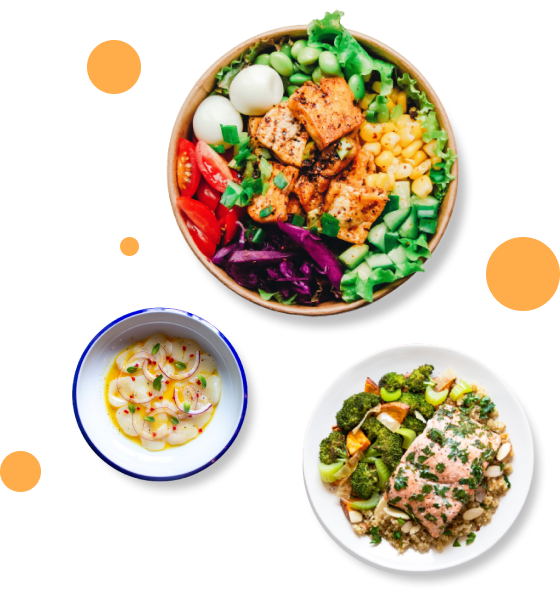
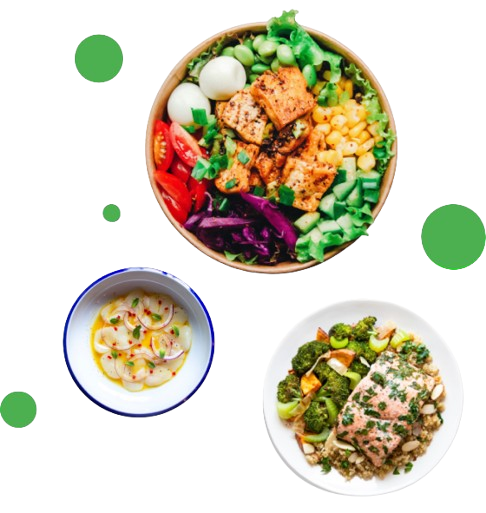
feat: add new functionality to donor cards

diff --git a/src/components/feedbacks/feedback.jsx b/src/components/feedbacks/feedback.jsx
@@ -1,5 +1,5 @@
 import "./feedback.css"
-import chef from "../../assets/chef.png"
+import chef from "../../assets/chefe.png"
 import axios from "axios"
 import { useEffect, useState } from "react";
 
@@ -11,13 +11,11 @@ export function Feedbacks() {
 
     async function getDataUser() {
         const { data } = await axios.get("http://localhost:4000/user");
-        console.log(data);
         setUser(data.users);
     }
 
     async function getDataOpinion() {
         const { data } = await axios.get("http://localhost:4000/opinion");
-        console.log(data);
         setOpinion(data.opinions);
     }
 
@@ -45,7 +43,7 @@ export function Feedbacks() {
 
                     <div className="feedback">
                         <img src={`${baseUrl}${user.image}`}alt="" className="feedback_avatar"/>
-                        <div>
+                        <div key={user.user_id}>
                             <p>
                                 {user.username} 
                                 <span>

diff --git a/src/components/cards/card.jsx b/src/components/cards/card.jsx
@@ -1,13 +1,33 @@
 
+import { useEffect, useRef } from "react";
 import "./card.css"
+import VanillaTilt from "vanilla-tilt"
 
 
 export function Card({donor}) {
     const baseUrl = "http://localhost:4000"
+    const tiltRef = useRef(null);
+
+    useEffect(() => {
+      if (tiltRef.current) {
+        VanillaTilt.init(tiltRef.current, {
+          max: 17,
+          speed: 400,
+          glare: true,
+          "max-glare": 0.3
+        });
+      }
+  
+      return () => {
+        if (tiltRef.current?.vanillaTilt) {
+          tiltRef.current.vanillaTilt.destroy();
+        }
+      };
+    }, []);
 
     return (
         <>
-            <div className="card" key={donor.donor_id}>
+            <div className="card" key={donor.donor_id} ref={tiltRef}>
                     <div className="heart">
                         <i className="fas fa-heart"></i>
                     </div>

diff --git a/src/components/header/header.css b/src/components/header/header.css
@@ -3,7 +3,7 @@ header {
     padding: 28px 8%;
     position: sticky;
     top: 0;
-    background-color: #fff9ea;
+    background-color: #eafff0;
     z-index: 3;
 
 }
@@ -17,7 +17,7 @@ header {
 
 #nav_icon {
     font-size: 22px;
-    color: #e9a209;
+    color: #4CAF50;
 }
 
 .nav_list {
@@ -30,12 +30,6 @@ header {
     text-decoration: none;
     color: #1d1d1dad;
     font-weight: 600;
-}
-
-.nav_item.active a {
-    color: #1d1d1d;
-    border-bottom: 3px solid #ffe100;
-
 }
 
 .mobile_btn {

diff --git a/src/components/cards/card.css b/src/components/cards/card.css
@@ -10,13 +10,14 @@
     box-shadow: 0px 0px 12px 4px rgba(0,0,0,0.1);
     position: relative;
     overflow: hidden;
-    flex-basis: 25%; 
+    flex-basis: 23%; 
     min-width: 250px;
+    cursor: pointer;
 }
 
 .heart {
     position: absolute;
-    background-color: #e9a209;
+    background-color: #4CAF50;
     display: flex;
     align-items: center;
     justify-content: center;
@@ -35,7 +36,7 @@
 }
 
 .rate i {
-    color: #e9a209;
+    color: #4CAF50;
 }
 
 .imagedonor {

diff --git a/src/index.css b/src/index.css
@@ -12,7 +12,7 @@ html {
 }
 
 body {
-  background-color: #fff9ea;
+  background-color: #eafff0;
 }
 
 .btn_default {
@@ -20,7 +20,7 @@ body {
   display: flex;
   align-items: center;
   justify-content: center;
-  background-color: #ffcb45;
+  background-color: #4CAF50;
   border-radius: 12px;
   padding: 10px 14px;
   font-weight: 600;
@@ -31,6 +31,6 @@ body {
 }
 
 .btn_default:hover {
-  background-color: #f8d477;
+  background-color: #208a37c4;
 
 }

diff --git a/src/components/feedbacks/feedback.css b/src/components/feedbacks/feedback.css
@@ -4,6 +4,7 @@
     align-items: center;
     justify-content: center;
     gap: 48px;
+    margin-top: 80px;
 }
 
 .imagechef {
@@ -54,7 +55,7 @@
 }
 
 .feedback span i {
-    color: #e9a209;
+    color: #4CAF50;
 }
 
 @media screen and (max-width: 1170px) {
@@ -85,7 +86,7 @@
     }
 
     .feedback_content {
-        width: 100%;
+        width: 81%;
     }
 
     .feedback {

diff --git a/src/components/donations/donation.jsx b/src/components/donations/donation.jsx
@@ -27,7 +27,7 @@ export function Donation() {
 
 
             <div className="container" id="donors">
-                {dataDonor.slice(0, 3).map(donor => (
+                {dataDonor.slice(0, 4).map(donor => (
                     <Card key={donor.donor_id} donor={donor}/>
                 ))}
             </div>

diff --git a/src/components/donations/donation.css b/src/components/donations/donation.css
@@ -5,9 +5,7 @@
     align-items: center;
     justify-content: center;
     min-height: 100vh;
-    
-
-
+    margin-top: 30px;
 }
 
 .container {
@@ -21,7 +19,7 @@
 }
 
 .title {
-    color: #e9a209;
+    color: #4CAF50;
     font-size: 2.5rem;
 }
 

diff --git a/src/components/homeContent/homeContent.css b/src/components/homeContent/homeContent.css
@@ -19,7 +19,7 @@
 }
 
 .cta .title span {
-    color: #e9a209;
+    color: #4CAF50;
 }
 
 .cta .description {
@@ -40,7 +40,6 @@
 }
 
 .background {
-    background-color: #ffe8b4;
     width: 50%;
     height: 100%;
     position: absolute;
